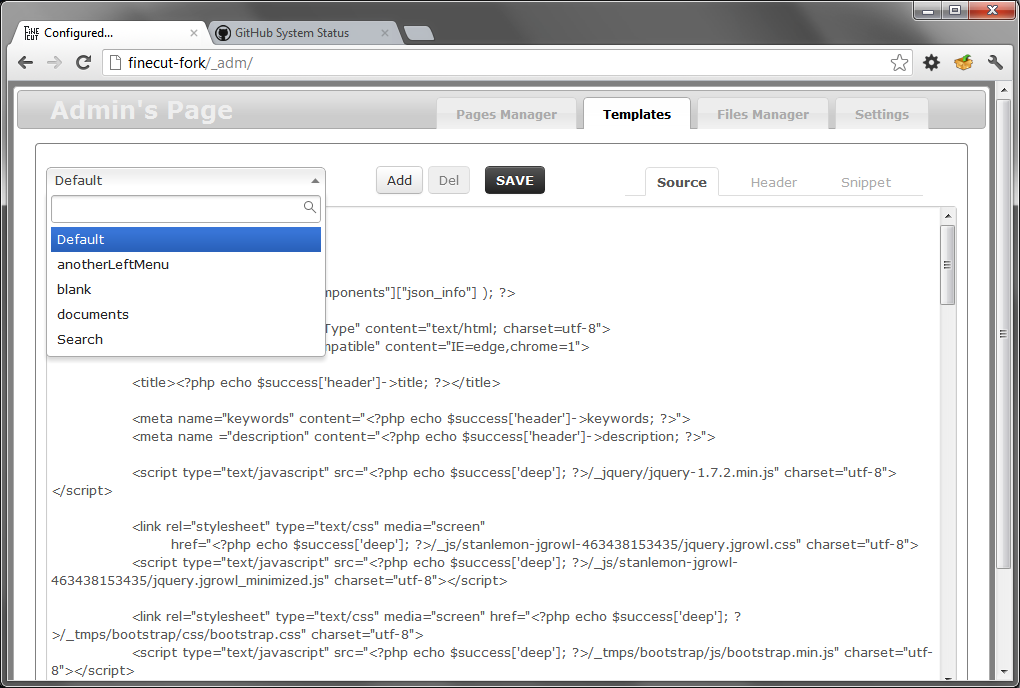
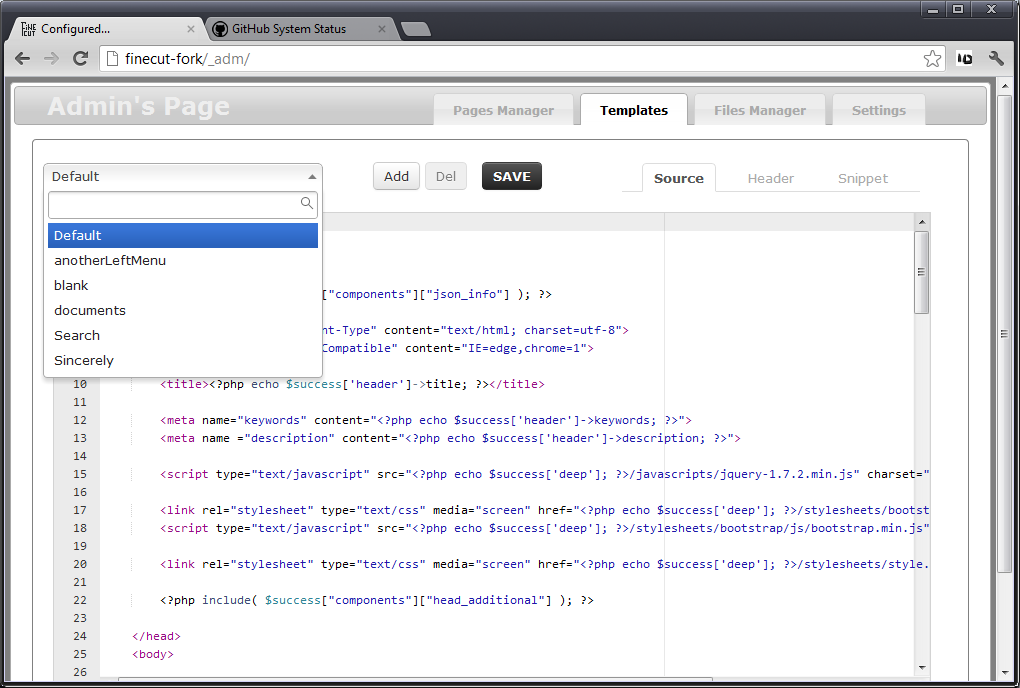
ACE Editor

diff --git a/about/screenshots/index.html b/about/screenshots/index.html
@@ -82,7 +82,7 @@
 <br>
 <div style = "text-align: center">
 <ul class="thumbnails">
-	<li class="span2">
+    <li class="span2">
 		<div class="thumbnail">
 	 	 	 <a href="/files/images/pm_settings.png" rel="lightbox[screenshost]" target="_blank">
 <img border = "0"  src="/files/tumbs/pm_settings.png" alt="Pages Manager : Page Settings " width = "132" height = "89"></a>
@@ -95,7 +95,7 @@
 	 	 	 <a href="/files/images/pm_editor.png" rel="lightbox[screenshost]" target="_blank">
 <img border = "0"  src="/files/tumbs/pm_editor.png" alt="Pages Manager : Page Editor" width = "132" ></a>
 			<h5>Page Editor</h5>
-			<p>How it looks like to edit pages? <a href="http://markitup.jaysalvat.com/home/" target="_blank">MarkitUp!</a></p>
+			<p>It looks like to edit pages: <a href="http://ace.ajax.org/" target="_blank">ACE Editor!</a></p>
 		</div>
 	</li>
 	<li class="span2">
@@ -121,7 +121,7 @@
 	 	 	 <a href="/files/images/templates_ed.png" rel="lightbox[screenshost]" target="_blank">
 <img border = "0"  src="/files/tumbs/templates_ed.png" alt="Template Editor" width = "132" height = "89"></a>
 			<h5>Template Editor</h5>
-			<p>Simple Textarea with [Tab] key from US</p>
+			<p>Awsome <a href="http://ace.ajax.org/" target="_blank">ACE Editor!</a> again, again!!!</p>
 		</div>
 	</li>
 	<li class="span2">

diff --git a/documentation/management/pages/content/index.html b/documentation/management/pages/content/index.html
@@ -86,7 +86,7 @@
 </a>
 </p>
 
-<p>Here you could see we use a brilliant <a href="http://markitup.jaysalvat.com/home/" target="_blank">MarkitUp! Editor</a>.</p>
+<p>Here you could see we use a brilliant <a href="http://ace.ajax.org/" target="_blank">ACE Editor</a>.</p>
 <br />
 
 <p>Only small addition we made are hotkeys preset:</p>
@@ -133,7 +133,7 @@ Ctrl + 8 : for the long dash <strong>&amp;mdash;</strong> <strong>&mdash; </stro
 
 <li>
 <p>
-Ctrl + Space : for new &amp;nbsp; &ndash; &nbsp; &nbsp; &nbsp; &nbsp; &nbsp; &nbsp; &nbsp; &nbsp; &nbsp; *here we are with using it.
+Ctrl + 9 : for new &amp;nbsp; &ndash; &nbsp; &nbsp; &nbsp; &nbsp; &nbsp; &nbsp; &nbsp; &nbsp; &nbsp; *here we are with using it.
 </p>
 </li>
 
